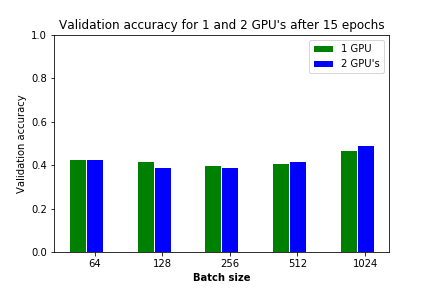
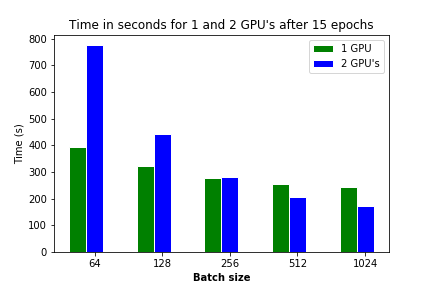
Changed images

diff --git a/rnn_demo_plot.py b/rnn_demo_plot.py
@@ -5,6 +5,8 @@ Created on Sat Jan 19 19:28:08 2019
 
 @author: arnold
 """
+import sys
+import numpy as np
 import pandas as pd
 import matplotlib.pyplot as plt
 
@@ -21,7 +23,8 @@ df_subset1 = df[df['GPU\'s'] == 2.0]
 print(df_subset0)
 print(df_subset1)
 
-x = df_subset0['Batch size']
+barwidth = 0.25
+x = [str(bs) for bs in df_subset0['Batch size']]
 y01 = df_subset0['Acc']
 y02 = df_subset0['Val. Acc']
 y03 = df_subset0['Time']
@@ -30,25 +33,47 @@ y12 = df_subset1['Val. Acc']
 y13 = df_subset1['Time']
 # {maybe insert a line here to summarize df_subset somehow interesting?}
 
+r1 = np.arange(len(y01))
+r2 = [x + barwidth for x in r1]
+r3 = [x + barwidth for x in r2]
+r4 = [x + barwidth for x in r3]
+
 fig, ax1 = plt.subplots()
 ax1 = plt.axes()
-ax1.plot(x, y01, linestyle=':', color='g', label='Accuracy, 1 GPU')
-ax1.plot(x, y02, linestyle='-', color='g', label='Val Acc, 1 GPU')
-ax1.plot(x, y11, linestyle=':', color='b', label='Accuracy, 2 GPU\'s')
-ax1.plot(x, y12, linestyle='-', color='b', label='Val Acc, 2 GPU\'s')
+ax1.bar(r1, y01, color='g', width=barwidth, edgecolor='white', label='1 GPU')
+ax1.bar(r2, y11, color='b', width=barwidth, edgecolor='white', label='2 GPU\'s')
+#plt.bar(r3, bars3, color='#2d7f5e', width=barWidth, edgecolor='white', label='var3')
+ax1.set_xlabel('Batch size', fontweight='bold')
 ax1.set_ylim(0, 1)
-ax1.set_xlabel('Batch size')
+plt.xticks([r + barwidth for r in range(len(y01))], x)
+
 ax1.set_ylabel('Accuracy')
-ax1.set_title('Results for 1 and 2 GPU\'s after 15 epochs')
-legend = ax1.legend(loc='upper left')
+ax1.set_title('Accuracy for 1 and 2 GPU\'s after 15 epochs')
+ax1.legend()
+plt.savefig('results-accuracy.png')
+plt.show()
 
+ax2 = plt.axes()
+ax2.bar(r1, y02, color='g', width=barwidth, edgecolor='white', label='1 GPU')
+ax2.bar(r2, y12, color='b', width=barwidth, edgecolor='white', label='2 GPU\'s')
+ax2.set_xlabel('Batch size', fontweight='bold')
+plt.xticks([r + barwidth for r in range(len(y01))], x)
 
-ax2 = ax1.twinx()
-ax2.plot(x, y03, color='y', label='Time, 1 GPU')
-ax2.plot(x, y13, color='r', label='Time, 2 GPU\'s')
-ax2.set_ylabel('Time (s)')
-legend = ax2.legend(loc='upper right')
+ax2.set_ylabel('Validation accuracy')
+ax2.set_title('Validation accuracy for 1 and 2 GPU\'s after 15 epochs')
+ax2.set_ylim(0, 1)
+ax2.legend()
+plt.savefig('results-time.png')
+plt.show()
 
-plt.savefig('results.png')
+ax3 = plt.axes()
+ax3.bar(r1, y03, color='g', width=barwidth, edgecolor='white', label='1 GPU')
+ax3.bar(r2, y13, color='b', width=barwidth, edgecolor='white', label='2 GPU\'s')
+ax3.set_xlabel('Batch size', fontweight='bold')
+plt.xticks([r + barwidth for r in range(len(y01))], x)
 
+ax3.set_ylabel('Time (s)')
+ax3.set_title('Time in seconds for 1 and 2 GPU\'s after 15 epochs')
+ax3.legend()
+plt.savefig('results-val-accuracy.png')
 plt.show()

diff --git a/rnn-demo.py b/rnn-demo.py
@@ -20,7 +20,7 @@ from keras.utils import multi_gpu_model
 from keras.models import Model
 import tensorflow as tf
 
-LayerType = CuDNNLSTM
+LayerType = CuDNNGRU
 
 def ohe(matrix, n):
     cube = np.zeros((matrix.shape[0], matrix.shape[1], n), dtype=np.int)
